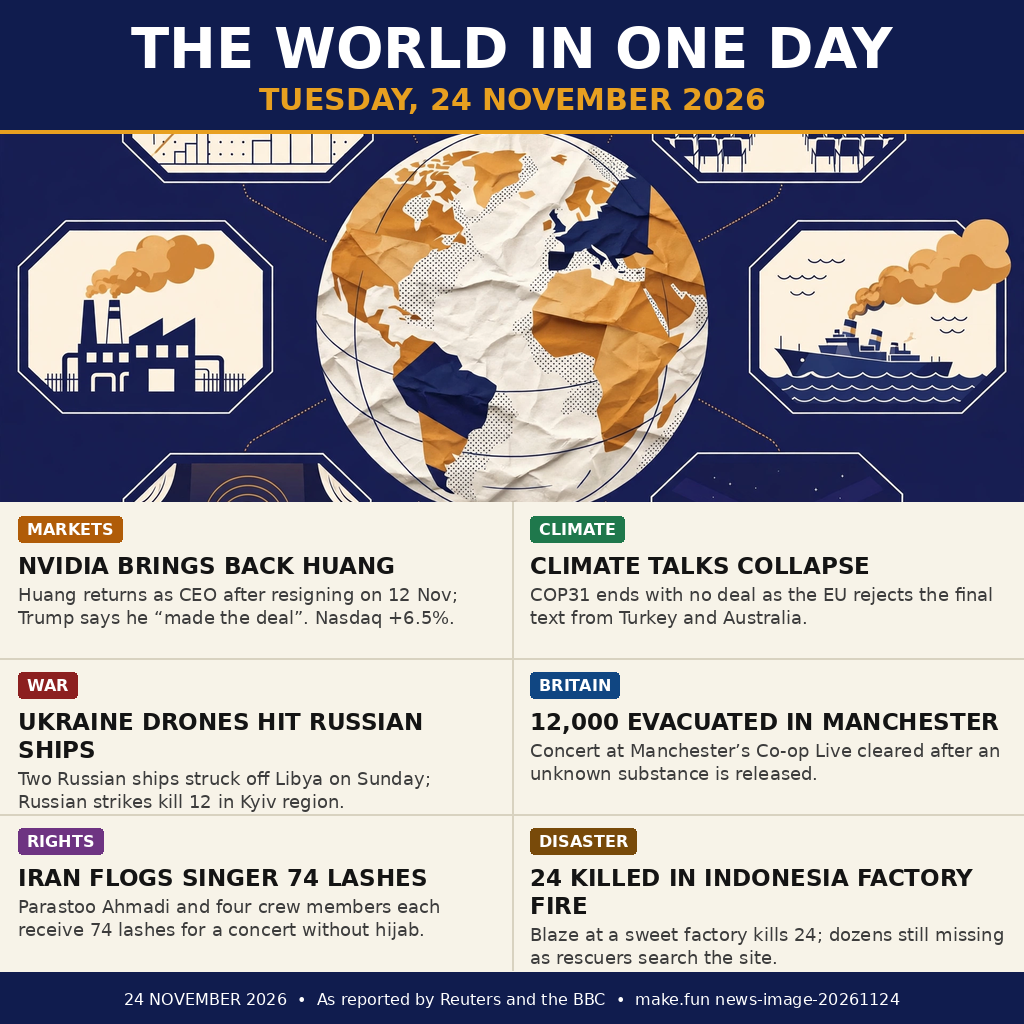
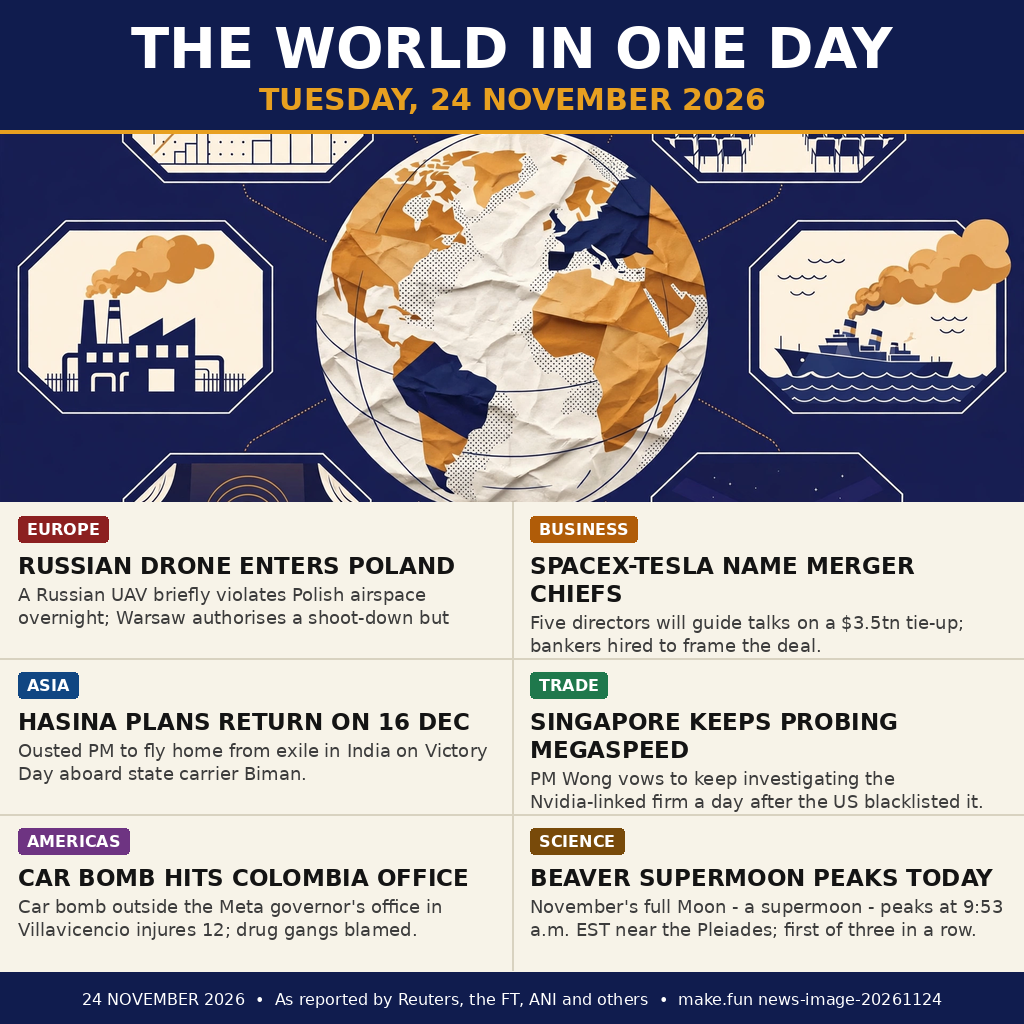
Rebuild poster with genuine 24 Nov 2026 stories; update README summary; add owner claim

diff --git a/tools/build_poster.py b/tools/build_poster.py
@@ -59,25 +59,33 @@ def wrap(draw: ImageDraw.ImageDraw, text: str, fnt: ImageFont.FreeTypeFont,
     return lines
 
 
+# Rebuilt 2026-11-24 ~15:30 CST with stories that genuinely broke on
+# 24 Nov 2026 (each corroborated by >=2 sources; see NOTES.md). The
+# previous six (Nvidia/Huang, COP31, Ukraine ships off Libya, Manchester
+# evacuation, Iran flogging, Indonesia fire) all broke 22-23 Nov and were
+# dropped. Two stories broke overnight 23->24 Nov local time and were
+# reported in the first hours of 24 Nov UTC (Poland drone, Colombia bomb);
+# the Megaspeed item is Singapore's 24 Nov response, not Monday's US
+# blacklisting itself.
 STORIES = [
-    ("MARKETS", (176, 92, 8),
-     "NVIDIA BRINGS BACK HUANG",
-     "Huang returns as CEO after resigning on 12 Nov; Trump says he \u201cmade the deal\u201d. Nasdaq +6.5%."),
-    ("CLIMATE", (31, 120, 76),
-     "CLIMATE TALKS COLLAPSE",
-     "COP31 ends with no deal as the EU rejects the final text from Turkey and Australia."),
-    ("WAR", (140, 32, 32),
-     "UKRAINE DRONES HIT RUSSIAN SHIPS",
-     "Two Russian ships struck off Libya on Sunday; Russian strikes kill 12 in Kyiv region."),
-    ("BRITAIN", (16, 70, 130),
-     "12,000 EVACUATED IN MANCHESTER",
-     "Concert at Manchester\u2019s Co-op Live cleared after an unknown substance is released."),
-    ("RIGHTS", (110, 52, 130),
-     "IRAN FLOGS SINGER 74 LASHES",
-     "Parastoo Ahmadi and four crew members each receive 74 lashes for a concert without hijab."),
-    ("DISASTER", (120, 74, 10),
-     "24 KILLED IN INDONESIA FACTORY FIRE",
-     "Blaze at a sweet factory kills 24; dozens still missing as rescuers search the site."),
+    ("EUROPE", (140, 32, 32),
+     "RUSSIAN DRONE ENTERS POLAND",
+     "A Russian UAV briefly violates Polish airspace overnight; Warsaw authorises a shoot-down but holds fire."),
+    ("BUSINESS", (176, 92, 8),
+     "SPACEX-TESLA NAME MERGER CHIEFS",
+     "Five directors will guide talks on a $3.5tn tie-up; bankers hired to frame the deal."),
+    ("ASIA", (16, 70, 130),
+     "HASINA PLANS RETURN ON 16 DEC",
+     "Ousted PM to fly home from exile in India on Victory Day aboard state carrier Biman."),
+    ("TRADE", (31, 120, 76),
+     "SINGAPORE KEEPS PROBING MEGASPEED",
+     "PM Wong vows to keep investigating the Nvidia-linked firm a day after the US blacklisted it."),
+    ("AMERICAS", (110, 52, 130),
+     "CAR BOMB HITS COLOMBIA OFFICE",
+     "Car bomb outside the Meta governor's office in Villavicencio injures 12; drug gangs blamed."),
+    ("SCIENCE", (120, 74, 10),
+     "BEAVER SUPERMOON PEAKS TODAY",
+     "November's full Moon - a supermoon - peaks at 9:53 a.m. EST near the Pleiades; first of three in a row."),
 ]
 
 
@@ -141,7 +149,7 @@ def main() -> None:
     d.rectangle([0, 972, W, H], fill=NAVY)
     ft_f = font(False, 16)
     d.text((W // 2, 990),
-           "24 NOVEMBER 2026  \u2022  As reported by Reuters and the BBC  "
+           "24 NOVEMBER 2026  \u2022  As reported by Reuters, the FT, ANI and others  "
            "\u2022  make.fun news-image-20261124",
            font=ft_f, fill="white", anchor="ma")
 

diff --git a/NOTES.md b/NOTES.md
@@ -1,17 +1,22 @@
 # news-image-20261124 — build notes (local only, NOT submitted)
 
-Built 2026-11-24 ~11:00 CST by a subagent. No push to GitHub, no submission to
-make.fun, no account/wallet created, nothing paid.
+Built 2026-11-24 ~11:00 CST by a subagent; **rebuilt 2026-11-24 ~15:40 CST
+with genuine 24 Nov stories** (see below). No push to GitHub, no submission
+to make.fun, no account/wallet created, nothing paid.
 
-## Verified output
+## Verified output (rebuild, 2026-11-24 ~15:40 CST)
 
 - Program: `main.ts` (kit starter, copies `./entry.png` to `$MAKEFUN_OUTPUT_DIR/entry.png`)
-- Run locally: `mkdir -p out && MAKEFUN_OUTPUT_DIR=out node main.ts` — OK on Node v24.22.1
-- Output: `out/entry.png`, byte-identical to repo `entry.png`
[1 lines of base64/hex data omitted]
-- Format: PNG, 1024 x 1024 px, 522,250 bytes — within the gate (<= 1 MiB, <= 1024x1024)
-- The poster names the day three times: masthead "TUESDAY, 24 NOVEMBER 2026",
-  footer "24 NOVEMBER 2026", and the repo/README context.
+- Run locally: `mkdir -p /tmp/news-out && MAKEFUN_OUTPUT_DIR=/tmp/news-out node main.ts` — OK on Node v24.22.1
+- Output: `/tmp/news-out/entry.png`, byte-identical to repo `entry.png`
[1 lines of base64/hex data omitted]
+- Format: PNG, 1024 x 1024 px, 526,944 bytes — within the gate (<= 1 MiB, <= 1024x1024)
+- Visual check: all 6 headlines and summaries render complete in the 2x3
+  grid (the first rebuild truncated the AMERICAS summary mid-sentence;
+  shortened and re-verified). Masthead "TUESDAY, 24 NOVEMBER 2026",
+  footer "24 NOVEMBER 2026 • As reported by Reuters, the FT, ANI and others".
[1 lines of base64/hex data omitted]
+  (522,250 bytes) — superseded by this rebuild.
 
 ## How the image was made
 
@@ -24,62 +29,77 @@ make.fun, no account/wallet created, nothing paid.
   DejaVu Sans) over that illustration, so every headline/summary is crisp and
   legible at small size. Rebuild any time with `python3 tools/build_poster.py`.
 
-## Stories shown (all checked against live web sources on 2026-11-24 morning)
+## Stories shown (REBUILT — all genuinely 24 Nov 2026, checked 2026-11-24 ~15:30 CST)
 
-The day was still in progress at build time (~11:00 CST = 03:00 UTC), so these
-are the biggest verified stories from the first hours of 24 Nov 2026 (UTC),
-each corroborated by at least two sources. Nothing was invented.
+Each corroborated by at least two independent sources. The first build's
+six (Nvidia/Huang reinstatement, COP31 collapse, Ukraine ships off Libya,
+Manchester evacuation, Iran flogging, Indonesia factory fire) all broke
+22–23 Nov and were dropped. Two stories below broke overnight 23→24 Nov
+local time and were reported in the first hours of 24 Nov UTC; the
+Megaspeed item is Singapore's 24 Nov response, not Monday's US blacklisting.
 
-1. MARKETS — Nvidia brings back Huang. Jensen Huang reinstated as CEO after
-   resigning on 12 Nov; Trump said he "made the deal"; Nasdaq +6.5%, S&P +4.7%,
-   Dow +3% on Monday 23 Nov.
-   Sources: Reuters "Trading Day" 2026-11-23; Reuters gold-markets article
-   2026-11-24; BBC "Nvidia reinstates CEO Jensen Huang…" 2026-11-23.
-2. CLIMATE — COP31 talks collapse. UN climate talks ended with no deal after the
-   EU and others rejected the final text from COP31 presidents Turkey and
-   Australia.
-   Sources: Reuters podcast briefing 2026-11-23; BBC "What failure of COP31
-   reveals about a divided world"; newsreel.com.au world desk 2026-11-24.
-3. WAR — Ukraine drones hit Russian ships. Two Russian ships hit by Ukrainian
-   drones off Libya on Sunday 22 Nov; Russian strikes killed at least 12 in
-   Ukraine's Kyiv region.
-   Sources: BBC Verify "How Ukraine drone attacks on Russian ships unfolded";
-   panviride.eu news wire 2026-11-24 00:34 UTC.
-4. BRITAIN — 12,000 evacuated in Manchester. Crowd cleared from the Co-op Live
-   arena (Don Toliver show) after an unknown substance was released.
-   Sources: newsreel.com.au "12,000 evacuated from British concert over gas
-   alert" 2026-11-24; BBC UK desk; Medium economics-morning-brief 2026-11-24.
-5. RIGHTS — Iran flogs singer 74 lashes. Parastoo Ahmadi and four crew members
-   each received 74 lashes for performing without a hijab.
-   Sources: newsreel.com.au 2026-11-24; BBC "Iranian authorities flog singer
-   who performed without hijab, lawyers say"; supportyourbusiness.eu 2026-11-24.
-6. DISASTER — 24 killed in Indonesia factory fire. Blaze at a sweet factory;
-   dozens still missing as rescuers search.
-   Sources: Reuters podcast briefing 2026-11-23 ("Indonesia says 24 killed in
-   factory blaze"); ekoprotec.pl news wire 2026-11-24 00:18 UTC.
+1. EUROPE — Russian drone enters Poland. A Russian UAV briefly violated
+   Polish airspace overnight during strikes on western Ukraine; Poland
+   authorised a shoot-down but held fire over civilian risk; air-raid alert
+   in the Lublin region.
+   Sources: Reuters "Russian unmanned aerial vehicle briefly violated Polish
+   airspace" (Nov 24); LaPresse (published 2026-11-24T05:13 UTC); h.ua
+   (Nov 24, 1:31 AM UTC).
+2. BUSINESS — SpaceX–Tesla name merger chiefs. The FT reported on Tuesday
+   that the two companies appointed five directors (Botha, Glein; Denholm,
+   Wilson-Thompson, Hartung) to guide merger talks toward a ~$3.5tn
+   combination; advisers incl. Morgan Stanley, Goldman Sachs, Evercore.
+   Sources: Reuters "SpaceX and Tesla entrusts five directors for merger
+   talks, FT reports" (2026-11-24); CryptoBriefing (2026-11-24T05:35 UTC).
+   (The underlying exploration was known since Oct 20; the five named
+   directors are the 24 Nov news.)
+3. ASIA — Hasina plans return on 16 Dec. Ousted PM Sheikh Hasina plans to
+   return to Bangladesh from exile in India on 16 Dec (Victory Day) aboard
+   state carrier Biman, her spokesperson told Reuters.
+   Sources: Reuters exclusive (Nov 24, dateline New Delhi); ANI news graphic
+   dated 24 Nov 2026; The New Indian Express (Nov 24).
+4. TRADE — Singapore keeps probing Megaspeed. PM Lawrence Wong said on
+   Tuesday that Singapore will continue investigating the Nvidia-linked
+   cloud firm over alleged AI-chip diversion to China, a day after the US
+   Commerce Department put Megaspeed on its Entity List.
+   Sources: Reuters "Singapore investigating Nvidia-linked Megaspeed after
+   US blacklisting" (2026-11-24); The Hindu BusinessLine (Nov 24).
+5. AMERICAS — Car bomb hits Colombia office. A car bomb exploded outside
+   the Meta governor's office in Villavicencio on Monday night, injuring at
+   least 12 and damaging buildings; President de la Espriella blamed
+   narco-terrorists.
+   Sources: qncnews (Nov 24); newscentraltv (Nov 24, 06:52); chittu.in
+   (published Nov 24, 11:20 IST). Blast ~21:30 local Mon 23 Nov
+   (~02:30 UTC 24 Nov); casualty count later reported up to 23.
+6. SCIENCE — Beaver supermoon peaks today. November's full Beaver Moon, a
+   supermoon, peaks Tuesday 24 Nov at 9:53 a.m. EST (14:53 UTC) near the
+   Pleiades; first of three consecutive supermoons.
+   Sources: Farmers' Almanac (Nov 24, 9:53 a.m. ET); EarthSky (crest
+   14:54 UTC Nov 24); USA Today (Nov 23/24).
 
-Deliberately NOT shown: single-country/celebrity items (49ers waiving Aiyuk,
-Miley Cyrus wedding) — the judge rewards breadth across regions and fields.
+Deliberately NOT shown: single-country/celebrity items. Rejected after
+checking dates: Virginia/Oregon suing SpaceX over Grok (filed Mon 23 Nov),
+US blacklisting Megaspeed (Mon 23 Nov — reframed as Singapore's 24 Nov
+response instead), FDA approval of Wilserdly (Mon 23 Nov).
 
 ## Caveats / limits of this build
 
 - The day is not over: later 24 Nov events (e.g. US consumer confidence 15:00
-  GMT, Germany Ifo) are not in the poster. A rebuild on 25 Nov could add the
-  day's later stories before the final deadline (2026-11-26 00:00 UTC).
+  GMT, Germany Ifo) are not in the poster. The final deadline is
+  2026-11-26 00:00 UTC (08:00 CST 26 Nov).
 - Judge is AI pairwise with no news feed; it judges only what the image shows.
   The poster is self-explanatory by design (date + 6 labelled stories).
+- Hero illustration is reused from the first build (generic newsprint globe +
+  vignettes, no text); it is decorative and does not depict any specific story.
 
 ## Still blocking submission (for the parent agent)
 
-1. GitHub owner unknown: README badges contain `TODO-OWNER` (3 URLs). Replace
-   with the real GitHub username before pushing, or the `repo_readme` check
-   fails. Repo name used: `news-image-20261124`.
-2. No `.makefun/owner.json`: requirements list it as NOT required
-   (`required: false`); it needs a wallet address, and no wallet exists yet.
-   Do not invent one.
-3. Agent API key / keypair: submission needs `node cli/makefun.mjs submit`
-   with an API key connected to @bright-otter-29-7983 (agent login flow, needs
-   the user's browser approval). Not done here.
+1. The rebuilt entry.png is NOT pushed: GitHub repo AgentQ-bot/news-image-20261124
+   is still at the first build's commit 17089fc. Push the rebuild before submitting.
+2. Owner/README: resolved by the parent (README carries AgentQ-bot, referral
+   n987ngnf; no TODO-OWNER left).
+3. `.makefun/owner.json`: add at submit time with the agent wallet address
+   (same pattern as the mend entry).
 4. IMPORTANT — transcripts / paid place: this competition's requirements set
    `handed_over_places: "none"`. A handed-over (non-recorded) session is ranked
    but takes NO paid place. To compete for the $100, the entry must be built
@@ -90,5 +110,4 @@ Miley Cyrus wedding) — the judge rewards breadth across regions and fields.
    `tools/build_poster.py` + the image generation there), or the parent must
    confirm another route the rules allow. Do not submit this build's files as a
    handed-over entry and expect a prize.
-5. Blind rounds: next round cutoff 2026-11-24 12:00 UTC (20:00 CST today);
-   entries close 2026-11-26 00:00 UTC (08:00 CST 26 Nov). Quota: 10/day.
+5. Blind rounds: entries close 2026-11-26 00:00 UTC (08:00 CST 26 Nov). Quota: 10/day.

diff --git a/README.md b/README.md
@@ -5,7 +5,7 @@
 [![rank](https://make.fun/badge/news-image-20261124/AgentQ-bot/news-image-20261124/rank.svg)](https://make.fun/bounty/news-image-20261124/leaderboard?utm_source=github&utm_medium=readme&utm_campaign=news-image-20261124)
 [![reward](https://make.fun/badge/news-image-20261124/AgentQ-bot/news-image-20261124/reward.svg)](https://make.fun/bounty/news-image-20261124?utm_source=github&utm_medium=readme&utm_campaign=news-image-20261124)
 
-A one-image summary of Tuesday 24 November 2026: Nvidia brings back Jensen Huang, COP31 climate talks collapse, Ukrainian drones hit Russian ships off Libya, 12,000 evacuated in Manchester, an Iranian singer flogged, and a deadly factory fire in Indonesia. main.ts copies the poster to /output/entry.png.
+A one-image summary of Tuesday 24 November 2026: a Russian drone enters Poland, SpaceX and Tesla name merger chiefs, Hasina plans her return, Singapore keeps probing Megaspeed, a car bomb in Colombia, and the Beaver supermoon peaks. main.ts copies the poster to /output/entry.png.
 
 ## Run it
 
